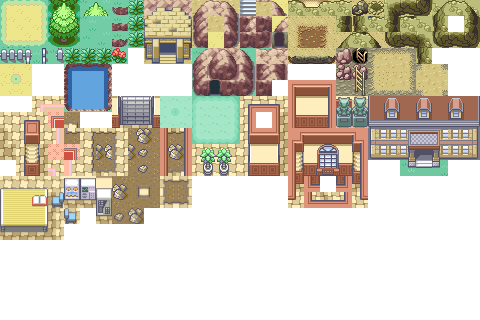
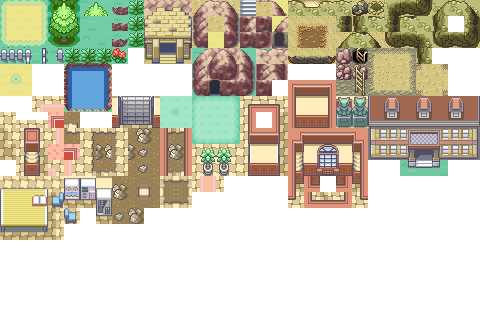
Update map loading logic and asset files
Modified `Scene::loadMap10()` to include additional coordinates in `ChangeMap` for enhanced map transitions. Updated binary assets in `TileMap.png` and `TileMap2.png`.

Changed region(s): [[0.0312, 0.3438, 0.125, 0.5], [0.375, 0.5312, 0.4688, 0.625]]

diff --git a/MetalGear/Scene.cpp b/MetalGear/Scene.cpp
@@ -130,7 +130,7 @@ TileMap* Scene::loadMap10()
 	float mapHeightPixels = 10 * 16;
 	float mapWidthPixels = 15 * 16;
 	TileMap* map = TileMap::createTileMap("levels/mapa10-puerta.txt", glm::vec2(SCREEN_X, SCREEN_Y), texProgram, 10,
-		{ ChangeMap({274,213},9, glm::ivec2(mapWidthPixels * 0.75 - 8, mapHeightPixels * 0.35f)) }, { 11, 12, 0, 0 });
+		{ ChangeMap({274,213,342,343},9, glm::ivec2(mapWidthPixels * 0.75 - 8, mapHeightPixels * 0.35f)) }, { 11, 12, 0, 0 });
 	return map;
 }
 
